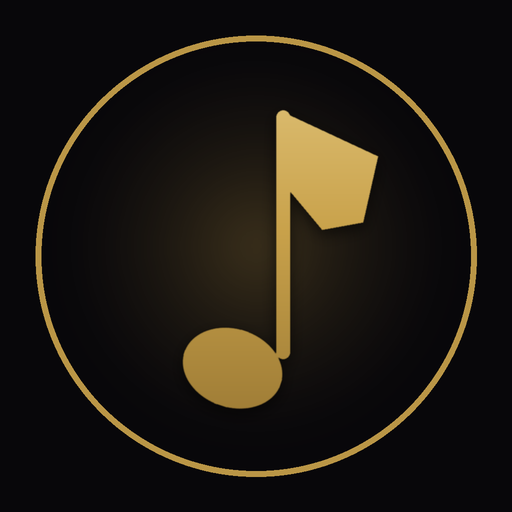
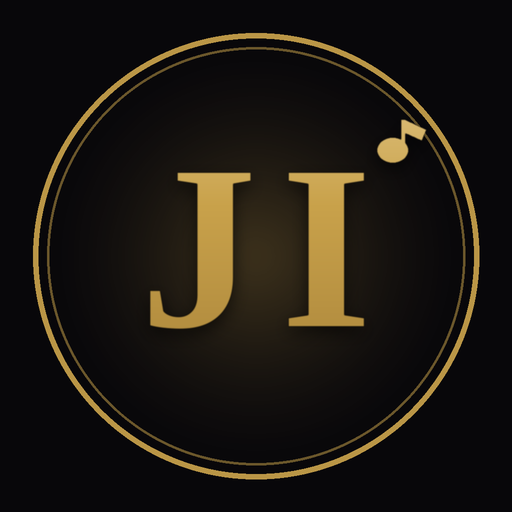
아이콘에 JI 모노그램 추가, 홈 화면 하단에 수동 설치 버튼 배치
- 아이콘 디자인 변경: 골드 세리프체 'JI' 모노그램 + 작은 음표 포인트,
  더블 골드 링 엠블럼으로 브랜드 아이덴티티 강화
- InstallAppButton: 홈 화면 메뉴 아래에 '홈 화면에 추가' 버튼 배치
  - Android/Chrome: beforeinstallprompt로 네이티브 설치 다이얼로그 표시
  - iOS Safari: 프로그래밍 설치가 불가능해 공유 버튼 안내 툴팁 표시
  - 이미 설치된 경우(standalone) 버튼 숨김

Claude-Session: https://claude.ai/code/session_01UbCqSkpUbNHwrURjbfnD9f

Changed region(s): [[0.0625, 0.0625, 0.9375, 0.9375]]

diff --git a/src/components/InstallAppButton.tsx b/src/components/InstallAppButton.tsx
@@ -1,0 +1,92 @@
+"use client";
+
+import { useEffect, useState } from "react";
+
+type BeforeInstallPromptEvent = Event & {
+  prompt: () => Promise<void>;
+  userChoice: Promise<{ outcome: "accepted" | "dismissed" }>;
+};
+
+function checkStandalone() {
+  if (typeof window === "undefined") return false;
+  return (
+    window.matchMedia("(display-mode: standalone)").matches ||
+    (window.navigator as { standalone?: boolean }).standalone === true
+  );
+}
+
+function checkIOS() {
+  if (typeof window === "undefined") return false;
+  return /iphone|ipad|ipod/i.test(window.navigator.userAgent);
+}
+
+export default function InstallAppButton() {
+  const [deferredPrompt, setDeferredPrompt] =
+    useState<BeforeInstallPromptEvent | null>(null);
+  const [isStandalone] = useState(checkStandalone);
+  const [isIOS] = useState(checkIOS);
+  const [showHint, setShowHint] = useState(false);
+
+  useEffect(() => {
+    const handler = (e: Event) => {
+      e.preventDefault();
+      setDeferredPrompt(e as BeforeInstallPromptEvent);
+    };
+    window.addEventListener("beforeinstallprompt", handler);
+    return () => window.removeEventListener("beforeinstallprompt", handler);
+  }, []);
+
+  if (isStandalone) return null;
+
+  const handleClick = async () => {
+    if (deferredPrompt) {
+      await deferredPrompt.prompt();
+      await deferredPrompt.userChoice;
+      setDeferredPrompt(null);
+      return;
+    }
+    setShowHint((v) => !v);
+  };
+
+  return (
+    <div className="relative flex flex-col items-center">
+      <button
+        type="button"
+        onClick={handleClick}
+        className="inline-flex items-center gap-2 rounded-full border border-accent/40 px-5 py-2.5 text-sm tracking-wide text-accent transition-colors hover:bg-accent-soft"
+      >
+        <svg
+          viewBox="0 0 24 24"
+          fill="none"
+          stroke="currentColor"
+          strokeWidth="1.8"
+          className="h-4 w-4"
+          aria-hidden="true"
+        >
+          <rect x="5" y="2" width="14" height="20" rx="2" />
+          <path d="M12 6v8" strokeLinecap="round" />
+          <path d="M9 11l3 3 3-3" strokeLinecap="round" strokeLinejoin="round" />
+          <path d="M9 18h6" strokeLinecap="round" />
+        </svg>
+        <span>홈 화면에 추가</span>
+      </button>
+
+      {showHint && (
+        <div className="mt-3 max-w-xs rounded-xl border border-line bg-background-elevated p-4 text-center text-xs leading-6 text-muted">
+          {isIOS ? (
+            <>
+              Safari 하단의 공유 버튼{" "}
+              <span className="text-accent">(⬆)</span>을 누른 뒤
+              &lsquo;홈 화면에 추가&rsquo;를 선택해 주세요.
+            </>
+          ) : (
+            <>
+              브라우저 메뉴(⋮)에서 &lsquo;홈 화면에 추가&rsquo; 또는
+              &lsquo;앱 설치&rsquo;를 선택해 주세요.
+            </>
+          )}
+        </div>
+      )}
+    </div>
+  );
+}

diff --git a/src/app/page.tsx b/src/app/page.tsx
@@ -1,6 +1,7 @@
 import Image from "next/image";
 import Link from "next/link";
 import ReactionButton from "@/components/ReactionButton";
+import InstallAppButton from "@/components/InstallAppButton";
 
 const MENU = [
   {
@@ -137,6 +138,10 @@ export default function Home() {
               </span>
             </Link>
           ))}
+        </div>
+
+        <div className="mt-10 flex justify-center">
+          <InstallAppButton />
         </div>
       </section>
     </div>
